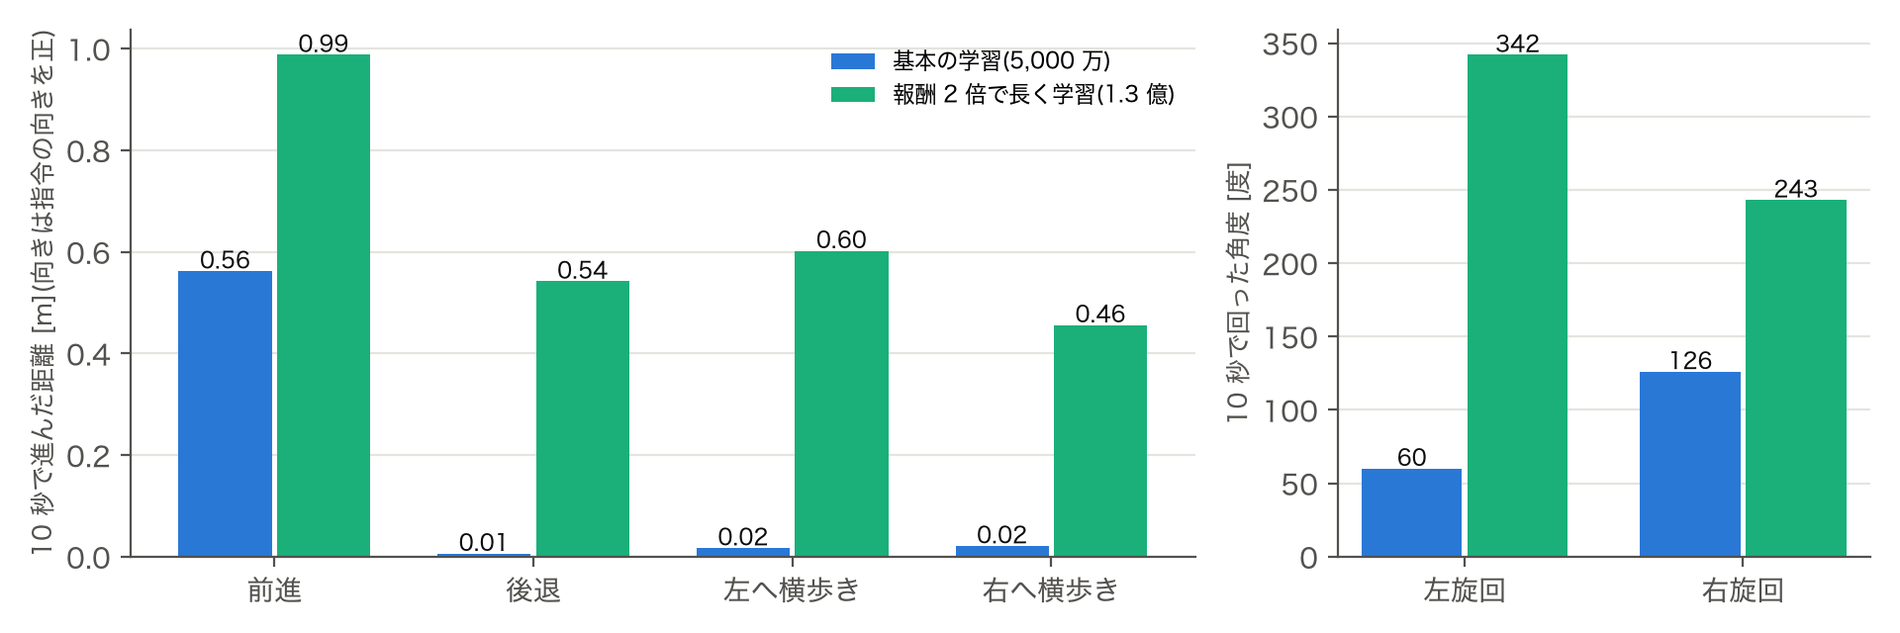
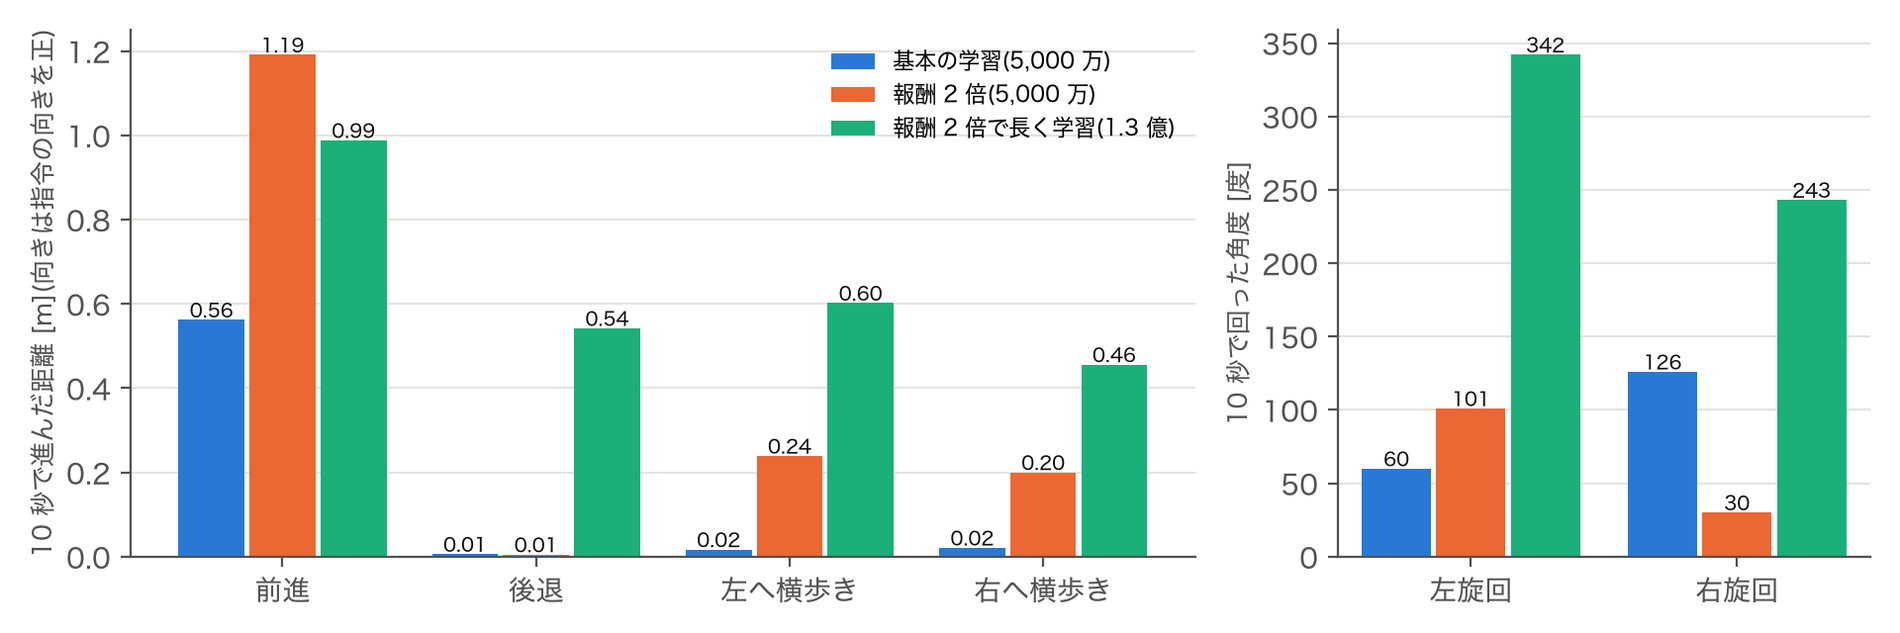
docs: revise report after review (honest B comparison, model structure, plain emphasis)

diff --git a/docs/report/report.html b/docs/report/report.html
@@ -36,38 +36,48 @@
 <body>
 
 <h1>Open Duck Mini を強化学習で歩かせる</h1>
-<div class="sub">Physical AI 応用編1 最終課題 説明資料 ／ MuJoCo Playground (MJX) + PPO (Brax)、シミュレーターのみ(実機は使っていません)</div>
+<div class="sub">Physical AI 応用編1 最終課題 説明資料 ／ MuJoCo Playground (MJX) + PPO (Brax)、シミュレーターのみ(実機は使っていません)<br>作成日: 2026-10-29 ／ アカウント ID: 142340</div>
 
 <h2>1. 概要と目的</h2>
-<p>小型二足歩行ロボット Open Duck Mini v2 を、MuJoCo Playground と PPO で歩かせる。公開されている学習環境(Open_Duck_Playground)を再現してから、<b>自分の変更を 2 つ加えて比較</b>し、さらに<b>学習済みの歩きを変えずに、上に制御を重ねて</b>点から点への移動・サッカー・ダンスをさせた。できなかったこと(ジャンプ、スキップ風の歩き)も測って残した。</p>
+<p>小型二足歩行ロボット Open Duck Mini v2 を、MuJoCo Playground と PPO で歩かせる。公開されている学習環境(Open_Duck_Playground)を再現してから、報酬の重みと学習の長さを変えて比較し、さらに、学習済みの歩きは変えずに、上に制御を重ねて点から点への移動・サッカー・ダンスをさせた。できなかったこと(ジャンプ、スキップ風の歩き)も測って残した。</p>
 <div class="box">
-<b>結果の要点</b>(すべて自分で測った値、各実験は乱数の種 1 本)
+結果の要点(すべて自分で測った値。各実験は乱数の種 1 本)
 <ul>
-<li>前進の報酬を 2 倍にすると、歩き始めが約 1,100 万ステップ早くなり、最終の速さは 0.056 → 0.119 m/s(約 2.1 倍)になった。</li>
-<li>学習を 1.5 億ステップに延ばすと、5,000 万ステップではほとんどできなかった後退・その場の旋回・横歩きができるようになった。ただし全項目を同時に満たす時点はなく、<b>部分的な成功</b>。</li>
-<li>学習なしの上位の制御だけで、4 点への移動は 4/4 成功。サッカーは調整した 5 か所で 4 回、調整に使っていない 3 か所で 3 回ゴール(転倒 1 回)。2 曲のダンスも転倒なし。</li>
-<li>ジャンプは物理的にできない(両足が浮いたのは最大 0.15 cm)。スキップ風の歩きは学習でも再現できなかった(失敗)。</li>
+<li>歩行: 前進の報酬を 2 倍にすると、歩き始めが約 1,100 万ステップ早くなり、5,000 万ステップ時点の前進の速さが 0.056 → 0.119 m/s(約 2.1 倍)になった。</li>
+<li>後退・その場の旋回・横歩き: 報酬 2 倍の設定のまま学習を 5,000 万 → 1.3 億ステップに延ばすと(報酬は同じ)、10 秒の移動が、後退 0.01 → 0.54 m、横歩き 0.24 → 0.60 m(左)・0.20 → 0.46 m(右)、旋回 101 → 342°(左)・30 → 243°(右)に増えた。ただし、決めた基準を全部同時に満たす時点はなく、部分的な成功。</li>
+<li>道案内役: 学習なしの上位の制御だけで、4 点への移動は 4/4 成功。</li>
+<li>サッカー: 調整した 5 か所で 4 回、調整に使っていない 3 か所で 3 回ゴール(転倒 1 回)。</li>
+<li>ダンス: 2 曲とも約 1 分、転倒なし。</li>
+<li>ジャンプ・スキップ: ジャンプは物理的にできなかった(両足が浮いたのは最大 0.15 cm)。スキップ風の歩きも学習で再現できなかった(失敗)。</li>
 </ul></div>
 
-<h2>2. 土台にしたものと、自分の変更</h2>
-<p><b>出典:</b> 学習環境・報酬・手本データ・公開ポリシーは Open Duck Project の公開リポジトリ(apirrone/Open_Duck_Playground の commit b9be205、apirrone/Open_Duck_reference_motion_generator の commit 3d7bc6f、ロボットは Open Duck Mini v2)。物理は MuJoCo と MuJoCo Playground、PPO は Brax。これらのコードは書き換えず(<code>external/</code> は未変更)、自分の変更は設定ファイルとスクリプトに置いた。</p>
+<h2>2. 使ったものと、行ったこと</h2>
+<h3>2.1 既存のもの(そのまま使った)</h3>
+<ul>
+<li>ロボットのモデル、学習環境、報酬の設計、手本の歩行データ、公開ポリシー: Open Duck Project(apirrone/Open_Duck_Playground の commit b9be205、apirrone/Open_Duck_reference_motion_generator の commit 3d7bc6f、ロボットは Open Duck Mini v2)</li>
+<li>物理シミュレーション: MuJoCo、MuJoCo Playground(Google DeepMind)</li>
+<li>強化学習(PPO): Brax</li>
+<li>これらのコードは書き換えていない(<code>external/</code> は未変更)。</li>
+</ul>
+<h3>2.2 自分で行ったこと</h3>
 <table>
-<tr><th style="width:23%">自分の変更</th><th>内容</th><th style="width:26%">どこにあるか</th></tr>
-<tr><td>A. 前進の報酬を 2 倍</td><td>報酬の重み <code>tracking_lin_vel</code> を 2.5 → 5.0 に上書きして学習(5,000 万ステップ)</td><td><code>configs/e004_tracking_lin_vel_x2.json</code>、<code>scripts/train_variant.py</code></td></tr>
-<tr><td>B. 学習を長くする</td><td>A の設定のまま 1.5 億ステップへ(3 倍)</td><td>同上</td></tr>
+<tr><th style="width:27%">内容</th><th>やったこと</th><th style="width:26%">置き場所</th></tr>
+<tr><td>A. 前進の報酬を 2 倍にして学習</td><td>報酬の重み <code>tracking_lin_vel</code> を 2.5 → 5.0 に上書きして 5,000 万ステップ学習し、基本の設定と比べた</td><td><code>configs/e004_tracking_lin_vel_x2.json</code>、<code>scripts/train_variant.py</code></td></tr>
+<tr><td>B. 学習を長くする</td><td>A と同じ設定のまま 1.5 億ステップ(3 倍)まで学習した</td><td>同上</td></tr>
 <tr><td>C. 学習なしの上位制御</td><td>道案内役・サッカー・ダンス(学習済みの方策に、指令だけを毎回計算して渡す)</td><td><code>scripts/navigator.py</code>、<code>striker.py</code>、<code>dance.py</code></td></tr>
-<tr><td>D. 手本データの作り直しとスキップ風の挑戦</td><td>Docker 上で手本の生成器を動かし、足の上げ幅を 4 cm → 8 cm にして学習</td><td><code>scripts/refgen_sweep.py</code>、<code>train_variant.py --reference</code></td></tr>
+<tr><td>D. 手本データの作り直しとスキップ風の挑戦</td><td>Docker 上で手本の生成器を動かし、足の上げ幅を 4 cm → 8 cm にして学習した</td><td><code>scripts/refgen_sweep.py</code>、<code>train_variant.py --reference</code></td></tr>
 <tr><td>E. 検証</td><td>JAX の方策と ONNX の出力の一致検査、ジャンプの実測</td><td><code>scripts/check_onnx_parity.py</code>、<code>jump_test.py</code></td></tr>
 </table>
 <p class="small">進め方: どの実験も、測る前に「何をもって成功・失敗とするか」を <code>docs/experiments.md</code> に書いてから測った。失敗した実験も同じ表に残してある。本文の「E006」などは、その表の実験番号である。公開ポリシーの 0.089 m/s は自分で再生して測った値で、出所の主張値とは分けて扱った。</p>
 
 <h2>3. 学習の仕組みと報酬設計</h2>
 <ul>
-<li><b>観測(101 次元):</b> ジャイロ 3、加速度 3、速度指令 7(前後・横・旋回と首の 4 つ)、関節角 14、関節速度 14、直前 3 回の動作 42、モーター目標 14、足の接地 2、歩行の位相 2。</li>
-<li><b>行動(14 次元):</b> 関節の目標角(既定姿勢 + 0.25 × 出力 [rad])。方策は 512 → 256 → 128 の全結合ネットワーク(swish)。</li>
-<li><b>PPO の設定:</b> 環境 8,192 並列、バッチ 256、割引率 0.97、学習率 3e-4、エントロピー係数 0.005、クリップ 0.2。学習は AWS g6.xlarge(L4)で毎秒約 4.2〜4.5 万ステップ、5,000 万ステップが約 23 分。</li>
-<li><b>報酬(公式の設定):</b> 速度への追従(前後・横 <code>tracking_lin_vel</code> 2.5、旋回 <code>tracking_ang_vel</code> 6.0)、立っていること <code>alive</code> 20、手本への追従 <code>imitation</code> 1.0、罰として関節トルク −0.001、動作の急変 −0.5、静止時の動き −0.2。手本は、歩行生成器が作った 240 通りの歩き方(速度ごと)から指令に近いものを引く。</li>
-<li><b>ランダム化:</b> 公式設定の押し(5〜10 秒ごとに 0.1〜1.0)とバックラッシュのモデルを含む環境(<code>flat_terrain_backlash</code>)を使った。ロバスト化の追加実験は行っていない。</li>
+<li>モデルの種類: 画像や言語を入力にする VLA のような大きなモデルではなく、小さな全結合ネットワーク(MLP)である。入力は上の観測 101 次元の数値だけで、カメラ画像は使わない。層の構成は 101 → 512 → 256 → 128 → 28(中間層の活性化は swish)で、パラメータは約 22 万個(ONNX ファイル 約 0.88 MB)。出力 28 のうち前半 14 が行動(tanh で ±1 に収める)、後半 14 は PPO が行動の確率分布を作るための値で、実行時には使わない。実行時は 1 回の推論が 0.02 秒ごとに 1 度(制御周期 50 Hz)。学習のときだけ、別の価値ネットワーク(評価用、入力は押された力などの追加情報を含む観測)も使うが、実行する方策には含まれない。</li>
+<li>観測(101 次元): ジャイロ 3、加速度 3、速度指令 7(前後・横・旋回と首の 4 つ)、関節角 14、関節速度 14、直前 3 回の動作 42、モーター目標 14、足の接地 2、歩行の位相 2。</li>
+<li>行動(14 次元): 関節の目標角(既定姿勢 + 0.25 × 出力 [rad])。</li>
+<li>PPO の設定: 環境 8,192 並列、バッチ 256、割引率 0.97、学習率 3e-4、エントロピー係数 0.005、クリップ 0.2。学習は AWS g6.xlarge(L4)で毎秒約 4.2〜4.5 万ステップ、5,000 万ステップが約 23 分。</li>
+<li>報酬(公式の設定): 速度への追従(前後・横 <code>tracking_lin_vel</code> 2.5、旋回 <code>tracking_ang_vel</code> 6.0)、立っていること <code>alive</code> 20、手本への追従 <code>imitation</code> 1.0、罰として関節トルク −0.001、動作の急変 −0.5、静止時の動き −0.2。手本は、歩行生成器が作った 240 通りの歩き方(速度ごと)から指令に近いものを引く。</li>
+<li>ランダム化: 公式設定の押し(5〜10 秒ごとに 0.1〜1.0)とバックラッシュのモデルを含む環境(<code>flat_terrain_backlash</code>)を使った。ロバスト化の追加実験は行っていない。</li>
 </ul>
 
 <h2>4. 実験: 前進の報酬を 2 倍にする(A)</h2>
@@ -80,17 +90,17 @@
 <tr><td>前進の報酬を 2 倍</td><td class="n">28.8M</td><td class="n">0.119 m/s</td><td class="n">+87°(左へ曲がる)</td></tr>
 <tr><td>(参考)公開ポリシー、自分で再生</td><td class="n">—</td><td class="n">0.089 m/s</td><td class="n">—</td></tr>
 </table>
-<p><b>結果と考察:</b> 判定は 3 条件とも満たし<b>成功</b>。歩き始めが約 1,100 万ステップ早まり、速さは約 2.1 倍で、公開ポリシーも上回った。図 1 左のとおり、<b>評価時の報酬は 2 つの学習でほとんど変わらない</b>のに、右の前進の速さは大きく違う。報酬の合計が似ていても、中身(立つ分と進む分の配分)が違うため、報酬の値だけでは歩きの良し悪しを判断できなかった。副作用として、長く歩くと左へ曲がっていく癖(約 3°/秒)が出た。向きを保つ力と引き換えになった可能性があるが、原因までは調べていない。</p>
+<p><b>結果と考察:</b> 判定は 3 条件とも満たし成功。歩き始めが約 1,100 万ステップ早まり、速さは約 2.1 倍で、公開ポリシーも上回った。図 1 左のとおり、評価時の報酬は 2 つの学習でほとんど変わらないのに、右の前進の速さは大きく違う。報酬の合計が似ていても、中身(立つ分と進む分の配分)が違うため、報酬の値だけでは歩きの良し悪しを判断できなかった。副作用として、長く歩くと左へ曲がっていく癖(約 3°/秒)が出た。向きを保つ力と引き換えになった可能性があるが、原因までは調べていない。</p>
 
 <h2>5. 実験: 学習を長くする(B)</h2>
-<p><b>仮説:</b> 5,000 万ステップで後退・横歩き・旋回がほぼできないのは、学習量が足りないから。<b>判定(事前):</b> いずれかのチェックポイントが、後退 0.5 m 以上、左右の横歩き各 0.5 m 以上、左右の旋回各 180° 以上、前進 0.1 m/s 以上を同時に満たし、転倒しない。どれも改善しなければ失敗。</p>
+<p><b>仮説:</b> 報酬 2 倍の設定でも、5,000 万ステップで後退・横歩き・旋回がほぼできないのは、学習量が足りないから。<b>比べ方:</b> 報酬は同じ(2 倍)のまま、学習の長さだけを変える(5,000 万 → 1.5 億ステップ)。<b>判定(事前):</b> いずれかのチェックポイントが、後退 0.5 m 以上、左右の横歩き各 0.5 m 以上、左右の旋回各 180° 以上、前進 0.1 m/s 以上を同時に満たし、転倒しない。どれも改善しなければ失敗。</p>
 <figure><img src="fig_commands.png" alt="">
-<figcaption>図 2 同じ指令を 10 秒与えたときの動き。青 = 基本の学習(5,000 万ステップ)、緑 = 報酬 2 倍で 1.3 億ステップ学習したもの(129.8M)。後退・横歩き・旋回は、青ではほとんど動かないが、緑では 0.5 m 前後・200° 超になった。</figcaption></figure>
-<p><b>結果と考察:</b> 後退・旋回は学習量を増やすと身についた(仮説は支持)。しかし<b>全項目を同時に満たすチェックポイントはなく、部分的成功</b>。採用した 1.3 億ステップ版(sha256 先頭 <code>cbbee2e3</code>)は、前進 0.99 m(基準は 0.1 m/s = 1.0 m に僅かに足りない)、右への横歩き 0.46 m(基準 0.5 m に僅かに足りない)。ほかのチェックポイントでは、横歩きが左だけ・右だけ良くなるなど、チェックポイントごとに入れ替わった。以降の上位制御・動画はすべてこの 1 本の方策を使った。</p>
-<p><b>方策は指令をどう使っているか:</b> 学習途中の方策(報酬 2 倍・3,960 万ステップ)で、指令の値だけを差し替えて ONNX を再実行し、関節目標の変化を測った(前進中の観測 250 個、1 ステップだけの比較)。前後の指令は股関節ピッチと足首(平均 3.5°)、旋回は股関節ヨー(1.7°)、横は股関節ロール(1.2°)が反応し、指令と関節の対応は学習でついている。横・旋回は反応が小さく、追従が弱いことと合う。<b>首の 4 つの指令は 0.3〜0.4° でほぼ無視</b>されていた。報酬が付いていないためで、後のダンスで首の動きを直接サーボへ書いた理由になった。</p>
+<figcaption>図 2 同じ指令を 10 秒与えたときの動き。青 = 基本の学習(5,000 万ステップ)、橙 = 報酬 2 倍(5,000 万ステップ)、緑 = 報酬 2 倍のまま 1.3 億ステップまで学習(129.8M)。橙と緑は報酬が同じで、学習の長さだけが違う。青と橙は長さが同じで、報酬だけが違う。</figcaption></figure>
+<p><b>結果と考察:</b> 報酬を変えず学習だけを延ばした橙 → 緑で、後退は 0.01 → 0.54 m、横歩きは左 0.24 → 0.60 m・右 0.20 → 0.46 m、旋回は左 101 → 342°・右 30 → 243° に増えた。学習量が不足していたという仮説は支持された。一方、青と橙を比べると、報酬 2 倍だけでも前進(0.56 → 1.19 m)と横歩きは増えたが、後退と旋回は増えず、右旋回は 126° → 30° に減った。つまり、図の青 → 緑の差は「報酬 2 倍」と「学習を長くする」の両方の効果が重なったものである。ただし、全項目を同時に満たすチェックポイントはなく、部分的成功だった。採用した 1.3 億ステップ版(sha256 先頭 <code>cbbee2e3</code>)は、前進 0.99 m(基準は 0.1 m/s = 1.0 m に僅かに足りない)、右への横歩き 0.46 m(基準 0.5 m に僅かに足りない)。ほかのチェックポイントでは、横歩きが左だけ・右だけ良くなるなど、チェックポイントごとに入れ替わった。以降の上位制御・動画はすべてこの 1 本の方策を使った。</p>
+<p><b>方策は指令をどう使っているか:</b> 学習途中の方策(報酬 2 倍・3,960 万ステップ)で、指令の値だけを差し替えて ONNX を再実行し、関節目標の変化を測った(前進中の観測 250 個、1 ステップだけの比較)。前後の指令は股関節ピッチと足首(平均 3.5°)、旋回は股関節ヨー(1.7°)、横は股関節ロール(1.2°)が反応し、指令と関節の対応は学習でついている。横・旋回は反応が小さく、追従が弱いことと合う。首の 4 つの指令は 0.3〜0.4° でほぼ無視されていた。報酬が付いていないためで、後のダンスで首の動きを直接サーボへ書いた理由になった。</p>
 
 <h2>6. 学習済みの方策の上に制御を重ねる(C)</h2>
-<p>方策が受け取れるのは速度指令(前後・横・旋回)と首の角度だけで、その指令に従って足を動かすことを学習している。そこで、<b>方策には手を加えず、指令の出し方だけを変える</b>ことで新しいことをさせた。追加の学習は不要で、費用は 0 円。</p>
+<p>方策が受け取れるのは速度指令(前後・横・旋回)と首の角度だけで、その指令に従って足を動かすことを学習している。そこで、方策には手を加えず、指令の出し方だけを変えることで新しいことをさせた。追加の学習は不要で、費用は 0 円。</p>
 
 <h3>6.1 道案内役(E006)</h3>
 <p>0.02 秒ごとに、目標点までの距離 d と、ロボットの向きと目標の向きのずれ α を測る。旋回指令 = 2.5 × α(±1.0 で頭打ち)、前進指令は |α| が 20° 未満のときだけ 0.15 m/s(それ以外は 0)。ずれが大きければその場で向きを変え、合えば前進する、という単純な規則である。5 cm 以内に着いたら次の点へ進む。</p>
@@ -102,18 +112,18 @@
 <figure><img src="fig_nav.png" alt=""><figcaption>図 3 道案内役が正方形の 4 点を回る(4 倍速、右が上から見た地図。橙が歩いた跡)。</figcaption></figure>
 <figure><img src="fig_soccer.png" alt=""><figcaption>図 4 サッカー。右上の地図の青い線が歩いた跡、赤い枠がゴール。</figcaption></figure>
 </div>
-<p><b>結果:</b> 調整に使った 5 か所は 4/5 ゴール(34〜84 秒、ダックの後ろにあったボールも回り込んで入れた)、1 回は転倒(ゴールポストにボールが挟まり、動かないのに押し続けて倒れた)。調整に使っていない 3 か所は <b>3/3 ゴール</b>。<b>部分的成功</b>(転倒 1 回のため)。最初の 3 つの版は 0/5 で、原因は、その場で回ると胴体の基準点が足を軸に 5〜17 cm ずれ、状態の判定がぶれたことだった。位置を両足の中点で測るように直して解決した。</p>
+<p><b>結果:</b> 調整に使った 5 か所は 4/5 ゴール(34〜84 秒、ダックの後ろにあったボールも回り込んで入れた)、1 回は転倒(ゴールポストにボールが挟まり、動かないのに押し続けて倒れた)。調整に使っていない 3 か所は 3/3 ゴール。部分的成功(転倒 1 回のため)。最初の 3 つの版は 0/5 で、原因は、その場で回ると胴体の基準点が足を軸に 5〜17 cm ずれ、状態の判定がぶれたことだった。位置を両足の中点で測るように直して解決した。</p>
 <p class="small">ボールの大きさは体の隙間で決まった: 半径 4 cm と 6.5 cm は足の間(11.7 cm)や胴体の下(11.5 cm)をすり抜け、8 cm は胴体の下端に乗り上げて転倒した。半径 12 cm で押せた。当初の予定(小さく軽く)とは逆に、大きくして解決した。</p>
 
 <h3>6.3 ダンス: エンターテインメントとして</h3>
 <p>曲の拍(Fluffing a Duck 122 BPM、Monkeys Spinning Monkeys 144 BPM)に合わせて、「前進・後退・旋回・カニ歩き」の指令を、拍の数ごとに切り替える振り付け表を書いた(<code>configs/dance_*.json</code>)。歩きの周期は、1 歩が曲の 1 拍になるよう時計を速める(1.10〜1.30 倍)。首は報酬がなく方策が無視するため、正弦波をサーボへ直接書いた。音楽は ffmpeg で動画に合成した(Kevin MacLeod、CC BY 4.0、出典は動画と YouTube の概要欄に明記)。</p>
-<p><b>結果:</b> 2 曲それぞれ約 1 分、転倒なし。16 拍の旋回で +222°/−156°/+226°(Monkeys)。<b>首を振りながら回ると回転がほぼ止まる</b>ことが分かり(8 拍で約 35°、首なしは約 140°)、その組み合わせは振り付けから外した。</p>
+<p><b>結果:</b> 2 曲それぞれ約 1 分、転倒なし。16 拍の旋回で +222°/−156°/+226°(Monkeys)。首を振りながら回ると回転がほぼ止まることが分かり(8 拍で約 35°、首なしは約 140°)、その組み合わせは振り付けから外した。</p>
 
 <h2>7. できなかったこと</h2>
 <h3>7.1 ジャンプ・バク転(E008)</h3>
-<p>方策なしで、関節目標を手で書いた「しゃがむ → 一気に伸ばす」を 72 通り試した(MuJoCo、モーターの力の上限と速さも実機の設定どおり)。両足が同時に浮いた時間は最大 0.02 秒、足の裏の高さは最大 0.15 cm。判定の 1 cm に届かず、<b>ジャンプはできない</b>と結論した。バク転に要る約 11 cm・空中 0.3 秒は桁違いに遠い。足が短く、伸ばす勢いが前後に倒れる回転へ逃げることが原因と考える。なお、最初の測り方(足の基準点の上昇)では 3.3 cm と出たが、足が傾くだけで上がる量だったので、足の裏の最下点で測り直した。</p>
+<p>方策なしで、関節目標を手で書いた「しゃがむ → 一気に伸ばす」を 72 通り試した(MuJoCo、モーターの力の上限と速さも実機の設定どおり)。両足が同時に浮いた時間は最大 0.02 秒、足の裏の高さは最大 0.15 cm。判定の 1 cm に届かず、ジャンプはできないと結論した。バク転に要る約 11 cm・空中 0.3 秒は桁違いに遠い。足が短く、伸ばす勢いが前後に倒れる回転へ逃げることが原因と考える。なお、最初の測り方(足の基準点の上昇)では 3.3 cm と出たが、足が傾くだけで上がる量だったので、足の裏の最下点で測り直した。</p>
 <h3>7.2 スキップ風の歩き(E009)</h3>
-<p>本物のスキップは片足で跳ぶ瞬間があるので上記から不可能。代わりに、足を 8 cm 上げる手本を作り(Docker 上の Placo 0.6.3 で生成。同じ手順で標準の手本を作ると、公式データと 240 動作中 239 動作が 0.002 rad 以内で一致。残り 1 動作は公式データ側の右ひざが逆向きだった)、模倣の重みも 2 倍にして 1 億ステップ学習した。<b>失敗</b>: 足の裏の最大の高さは 0.43 cm(判定 2.5 cm、通常の歩きでも 0.8 cm)で、むしろ低くなった。手本の足の高さを方策はまねず、すり足に落ち着いた。足の高さそのものに点を与える報酬が要ると考えるが、締め切りのため実施していない。</p>
+<p>本物のスキップは片足で跳ぶ瞬間があるので上記から不可能。代わりに、足を 8 cm 上げる手本を作り(Docker 上の Placo 0.6.3 で生成。同じ手順で標準の手本を作ると、公式データと 240 動作中 239 動作が 0.002 rad 以内で一致。残り 1 動作は公式データ側の右ひざが逆向きだった)、模倣の重みも 2 倍にして 1 億ステップ学習した。失敗: 足の裏の最大の高さは 0.43 cm(判定 2.5 cm、通常の歩きでも 0.8 cm)で、むしろ低くなった。手本の足の高さを方策はまねず、すり足に落ち着いた。足の高さそのものに点を与える報酬が要ると考えるが、締め切りのため実施していない。</p>
 
 <h2>8. 検証・再現手順・限界</h2>
 <ul>

diff --git a/scripts/make_report_figs.py b/scripts/make_report_figs.py
@@ -5,7 +5,7 @@ Usage (from the repo root):
 
 Figures:
   fig_curves.png    evaluation reward and forward speed against training steps (three runs).
-  fig_commands.png  distance / angle covered in 10 s under six commands: base run vs long run.
+  fig_commands.png  distance / angle covered in 10 s under six commands: base run (50M), reward x2 (50M), reward x2 long run (129.8M).
   fig_nav.png, fig_soccer.png, fig_ref.png  single frames cut from videos/final with ffmpeg (needs those clips).
 Guarantees: reads only docs/data/*.csv and videos/final; every CSV row used is looked up by its training step and
 raises if missing; writes only docs/report/fig_*.png. Palette: dataviz categorical order, text in ink tokens.
@@ -58,18 +58,20 @@ def curves():
 
 
 def commands():
-    base, long_ = row_at(rows("e003", "commands"), 50462720), row_at(rows("e005", "commands"), 129761280)
+    base, x2, long_ = (row_at(rows("e003", "commands"), 50462720), row_at(rows("e004", "commands"), 50462720),
+                       row_at(rows("e005", "commands"), 129761280))
     dist = [("前進", "fwd_x_m"), ("後退", "back_x_m"), ("左へ横歩き", "left_y_m"), ("右へ横歩き", "right_y_m")]
     turn = [("左旋回", "turn_l_deg"), ("右旋回", "turn_r_deg")]
     fig, axes = plt.subplots(1, 2, figsize=(9.6, 3.2), dpi=200, gridspec_kw={"width_ratios": [2, 1]})
     for ax, items, unit in ((axes[0], dist, "10 秒で進んだ距離 [m](向きは指令の向きを正)"), (axes[1], turn, "10 秒で回った角度 [度]")):
         x = np.arange(len(items))
-        for k, (r, c, lab) in enumerate(((base, COLORS[0], "基本の学習(5,000 万)"), (long_, COLORS[2], "報酬 2 倍で長く学習(1.3 億)"))):
+        for k, (r, c, lab) in enumerate(((base, COLORS[0], "基本の学習(5,000 万)"), (x2, COLORS[1], "報酬 2 倍(5,000 万)"),
+                                         (long_, COLORS[2], "報酬 2 倍で長く学習(1.3 億)"))):
             v = [abs(float(r[key])) for _, key in items]
-            b = ax.bar(x + (k - 0.5) * 0.38, v, 0.36, color=c, label=lab)
+            b = ax.bar(x + (k - 1) * 0.28, v, 0.26, color=c, label=lab)
             for rect, val in zip(b, v):
                 ax.text(rect.get_x() + rect.get_width() / 2, val, f"{val:.2f}" if unit.startswith("10 秒で進") else f"{val:.0f}",
-                        ha="center", va="bottom", fontsize=8, color=INK)
+                        ha="center", va="bottom", fontsize=7, color=INK)
         ax.set_xticks(x, [n for n, _ in items])
         ax.set_ylabel(unit, fontsize=9)
         ax.grid(axis="y", color=GRID, lw=0.8)

diff --git a/scripts/assemble_video.py b/scripts/assemble_video.py
@@ -34,9 +34,9 @@ STORY = [
     (SRC / "reward_x2.mp4", "前進の報酬を 2 倍にしたら、歩き始めが早くなった",
      "上が基本の設定、下が前進の報酬を 2 倍にしたもの。歩き始めは約 1,100 万ステップ早く、"
      "最終的な速さは 0.056 → 0.119 m/s と約 2 倍になった。", None),
-    (SRC / "commands.mp4", "長く学習すると、後ろ・回転・横歩きもできるようになった",
-     "同じ指令を出して比べた。左(5,000 万ステップ)は前進以外ほとんど動かない。右(報酬 2 倍で 1.3 億ステップ)は、"
-     "4 秒で後退 0.27 m、左旋回 133°、横歩き 0.24 m。", None),
+    (SRC / "commands.mp4", "報酬 2 倍のまま長く学習すると、後ろ・回転・横歩きもできるようになった",
+     "同じ指令で比べた。左は基本の 5,000 万ステップ、右は報酬 2 倍で 1.3 億ステップ(報酬と長さの両方が違う)。"
+     "右は 4 秒で後退 0.27 m、左旋回 133°、横歩き 0.24 m。", None),
     ("videos/final/clip_navigator.mp4", "道案内役: 学習済みの歩きに「行き先の指令」を出す",
      "追加の学習はなし。目標点までの距離と向きのずれを毎回測り、ずれが大きければ旋回、合っていれば前進の指令を出す。"
      "着いたら次の点へ(4 倍速)。", None),
